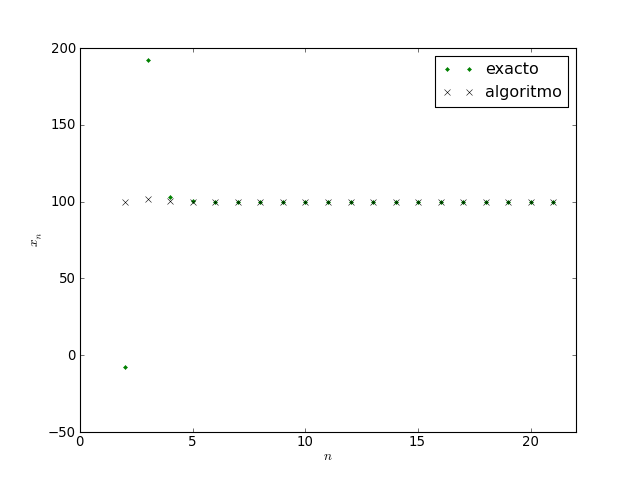
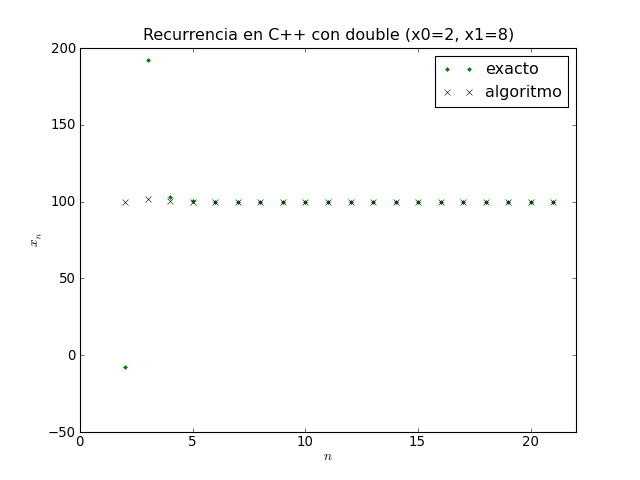
graficos reloaded

Changed region(s): [[0.2188, 0.0625, 0.8125, 0.0938]]

diff --git a/tp1/plot_xn.py b/tp1/plot_xn.py
@@ -8,6 +8,7 @@ import subprocess
 parser = OptionParser()
 parser.add_option("-c", "--compare", dest="x0x1",help="Compare to exact result")
 parser.add_option("-o", "--out", dest="filename",help="Save PNG to file")
+parser.add_option("-t", "--title", dest="title",help="Titulo del Grafico")
 parser.add_option("-q", action="store_false", dest="show", default=True, help="Don't show output")
 (options, args) = parser.parse_args()
 
@@ -47,5 +48,6 @@ p10=(max(ys)-min(ys))*.1
 #ylim(min(ys)-p10,max(ys)+p10)
 xlim(0,len(xs)+2)
 legend(loc=0)
+if options.title: title(options.title)
 if options.filename: savefig(options.filename,dpi=640./8)
 if options.show: show()
